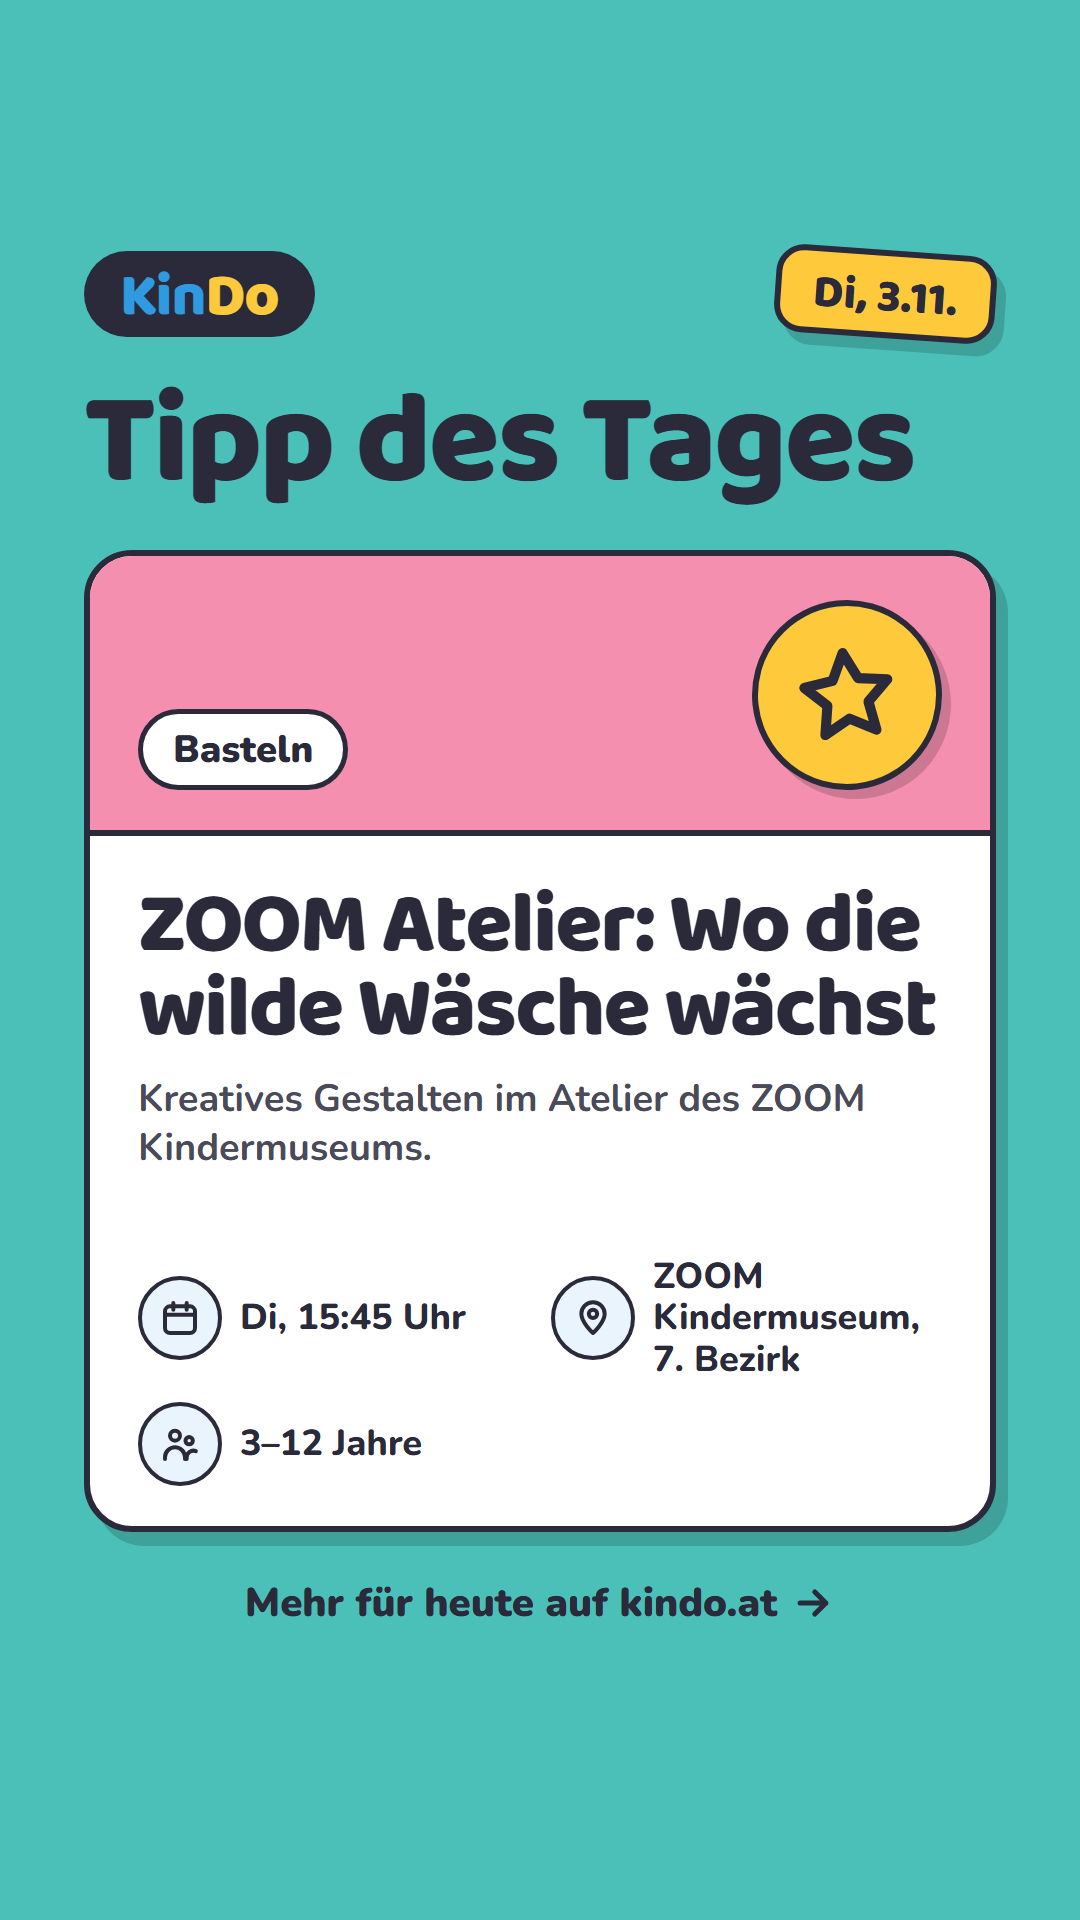
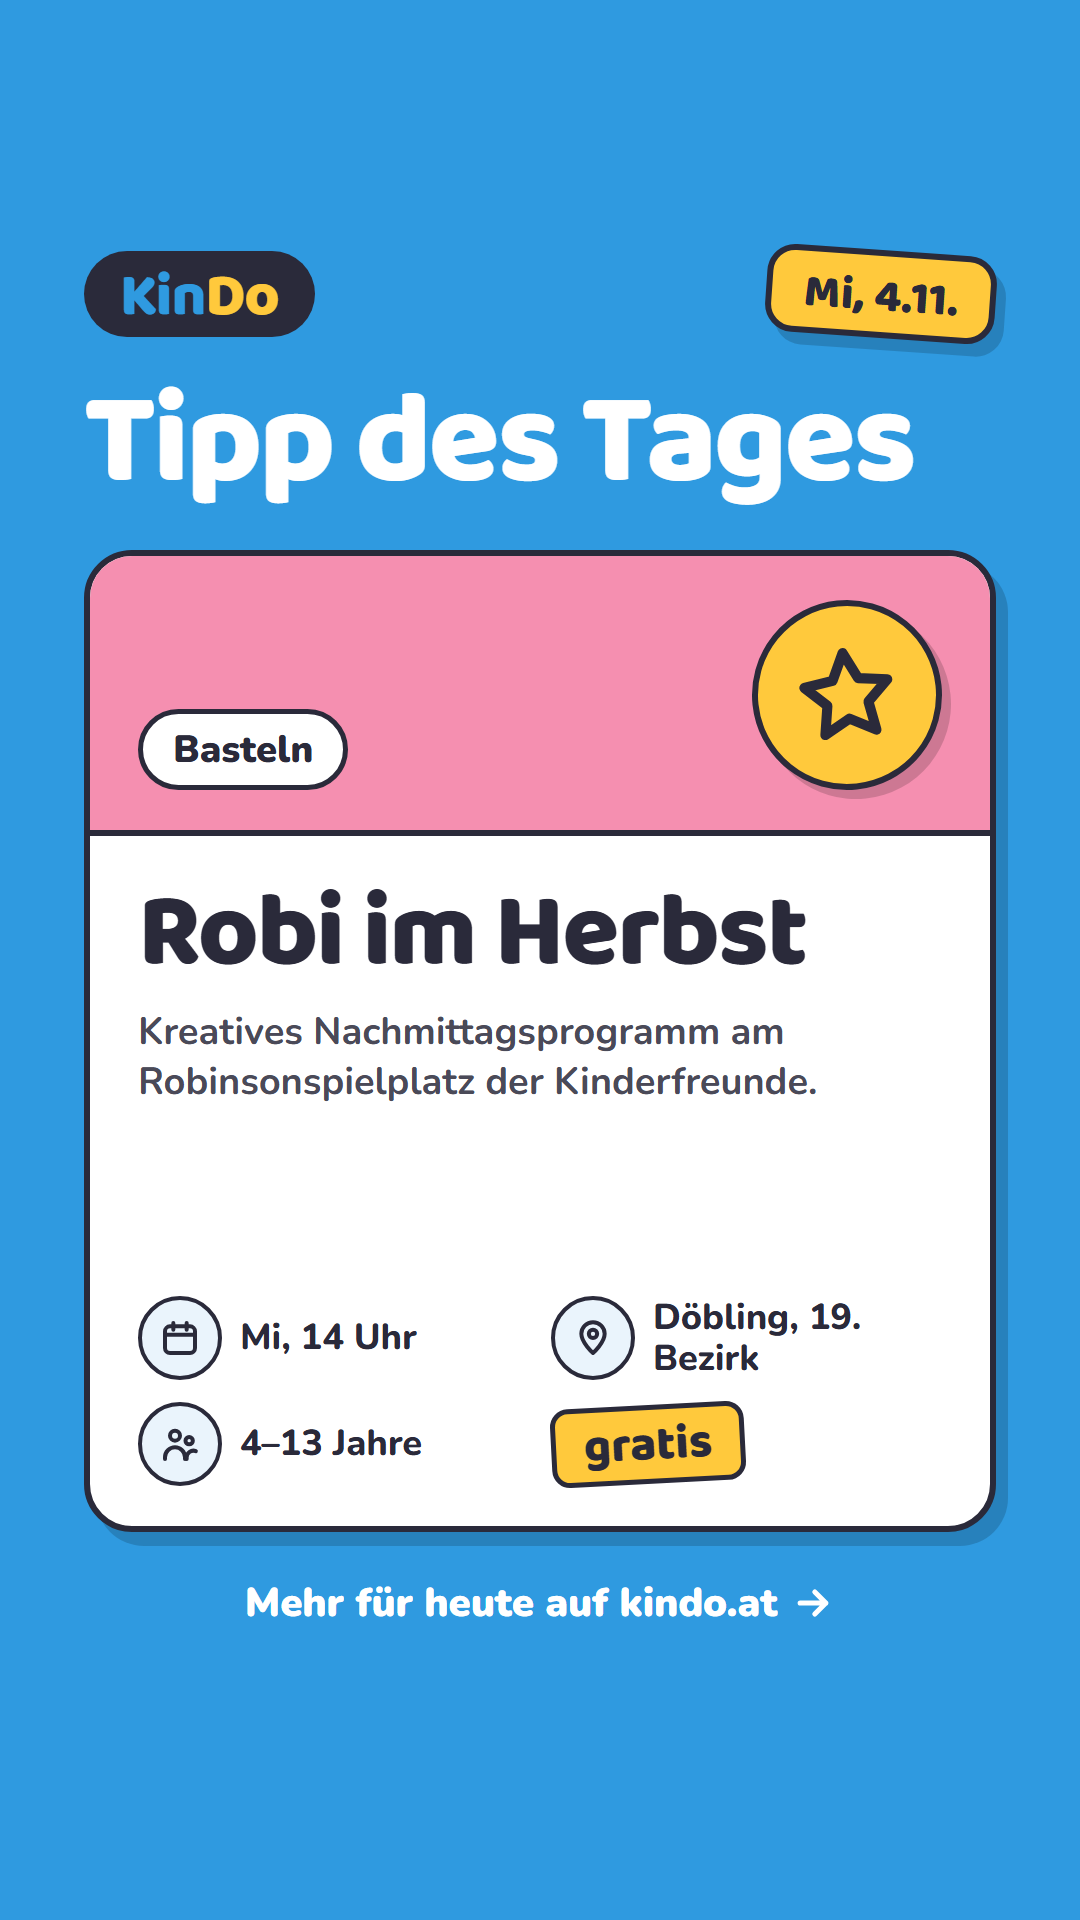
Story Tipp des Tages 2026-11-04

diff --git a/story/README.md b/story/README.md
@@ -1,8 +1,8 @@
-# Tipp des Tages – 3.11.
+# Tipp des Tages – 4.11.
 
-![Tipp des Tages: ZOOM Atelier: Wo die wilde Wäsche wächst](2026-11-03/01.png)
+![Tipp des Tages: Robi im Herbst](2026-11-04/01.png)
 
-**Link für den Sticker:** https://www.kindo.at/veranstaltungen/943244
+**Link für den Sticker:** https://www.kindo.at/veranstaltungen/594825
 
 So geht's: Bild antippen und speichern, in Instagram als Story posten, Link-Sticker mit dem Link oben dazugeben.
 
